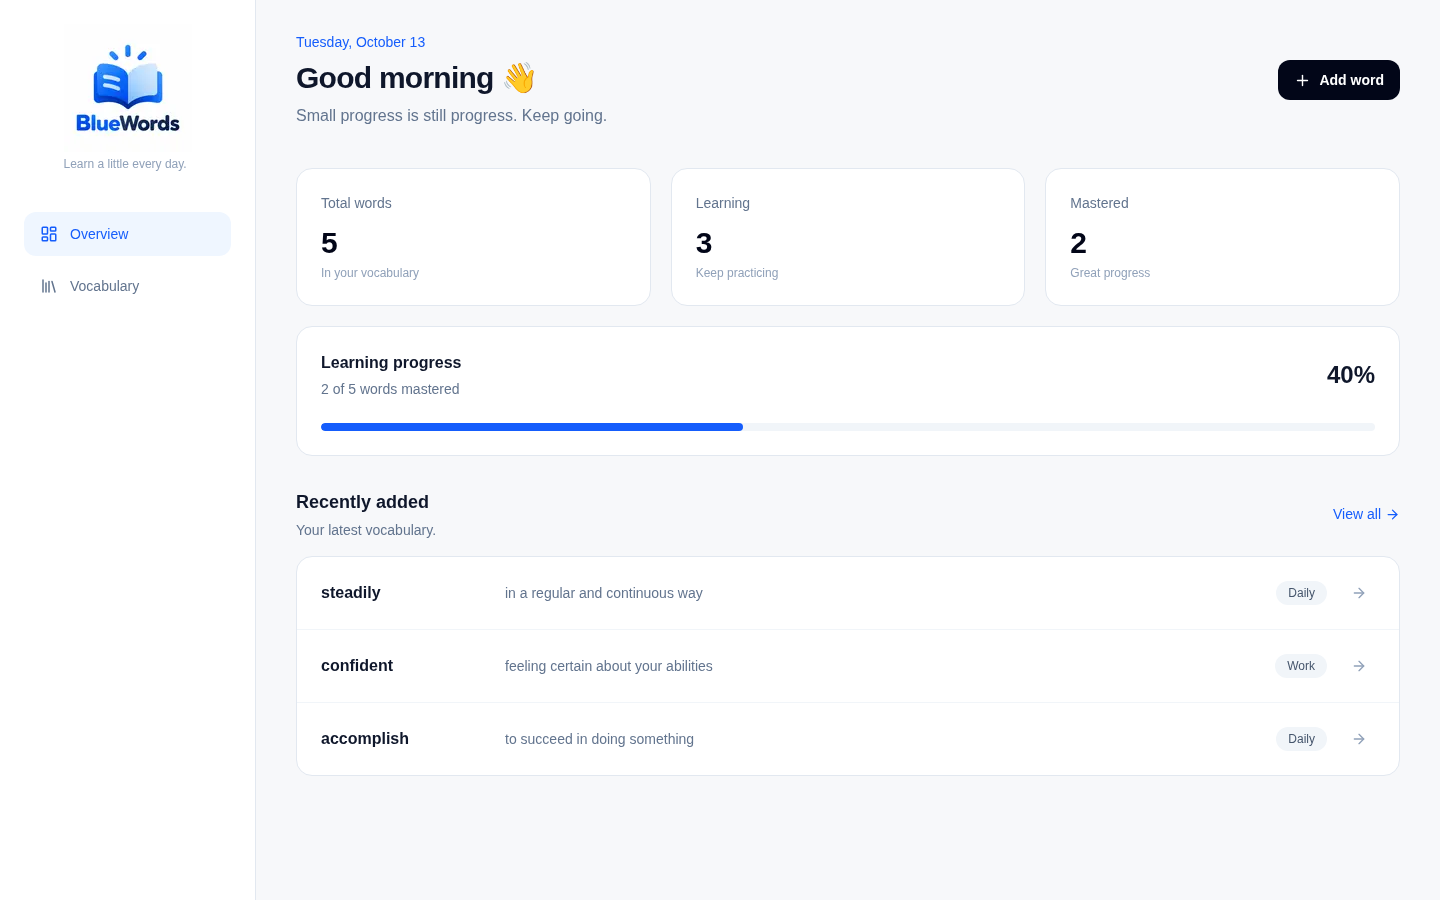
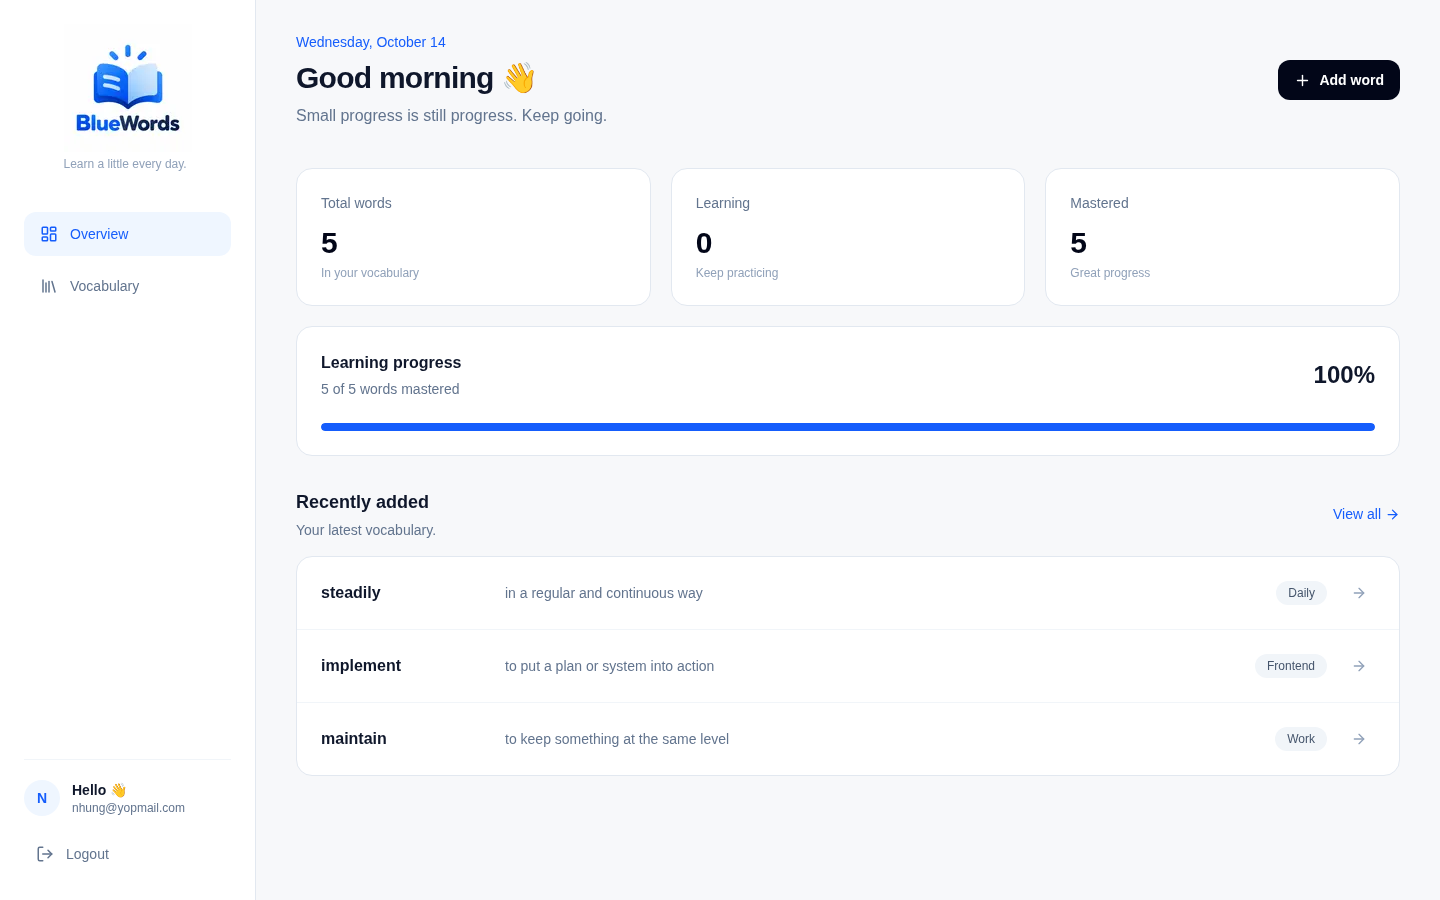
docs: update README and Cloud Sync screenshots

diff --git a/README.md b/README.md
@@ -1,84 +1,129 @@
 # BlueWords 💙
 
-**A simple and modern vocabulary tracker to help you learn, organize, and master English words.**
+**A modern vocabulary tracker to help you learn, organize, and master English words.**
 
-BlueWords is a responsive web application built with Next.js, TypeScript, and Tailwind CSS. It helps users manage their vocabulary, track learning progress, and build a consistent learning habit.
+BlueWords is a responsive, full-stack vocabulary management application built with **Next.js 16, TypeScript, Tailwind CSS v4, and Supabase**.
+
+It helps users build their personal vocabulary collection, organize words by category, and track learning progress. With Supabase Authentication and PostgreSQL, vocabulary is securely stored in the cloud and associated with each user's account.
 
 ### 🔗 Live Demo
 
-## Screenshots
+**[Try BlueWords](https://bluewords.vercel.app)**
 
-### Dashboard
+### 📸 Screenshots
+
+#### Dashboard
 
 ![BlueWords Dashboard](./public/screenshots/dashboard.png)
 
-### Vocabulary Management
+#### Vocabulary Management
 
 ![BlueWords Vocabulary](./public/screenshots/vocabulary.png)
 
-
-**[Try BlueWords](https://bluewords.vercel.app)**
-
 ### ✨ Features
 
-- **Vocabulary Management** — Add, edit, and delete vocabulary words.
+**Authentication & Cloud Storage**
+- **User Authentication** — Sign up, log in, and log out with Supabase Auth.
+- **Personal Vocabulary** — Each user manages their own vocabulary collection.
+- **Cloud Persistence** — Vocabulary is stored in Supabase PostgreSQL and remains available across sessions and devices.
+- **Row Level Security** — Database policies restrict access to each user's own records.
+- **Legacy Data Import** — Preview and import vocabulary previously saved in browser localStorage, with duplicate detection.
+
+**Vocabulary Management**
+- **CRUD Operations** — Add, edit, and delete vocabulary words.
 - **Learning Status** — Mark words as Learning or Mastered.
-- **Smart Search** — Search words by English vocabulary or meaning.
+- **Smart Search** — Find words by English vocabulary or meaning.
 - **Category Filtering** — Organize words into Daily, Work, and Frontend categories.
-- **Dashboard Overview** — View total words, mastered words, and learning progress.
+- **Duplicate Prevention** — Prevent duplicate vocabulary entries within the same account.
+
+**Dashboard & User Experience**
+- **Dashboard Overview** — Track total words, mastered words, and learning progress.
 - **Recent Words** — Quickly review recently added vocabulary.
-- **Local Storage** — Keep vocabulary data after refreshing the browser.
+- **Account Identification** — Display the signed-in user's email in the sidebar.
 - **Responsive Design** — Optimized for desktop, tablet, and mobile.
-- **User-Friendly Interactions** — Confirmation dialogs, toast notifications, and accessible modal interactions.
+- **Interactive Feedback** — Confirmation dialogs, loading states, and toast notifications.
+- **PWA Support** — Includes a web app manifest and app icons for an installable experience.
 
 ### 🛠 Tech Stack
 
 | Technology | Purpose |
 |---|---|
-| Next.js (App Router) | React framework |
-| React | UI development |
+| Next.js 16 (App Router) | Full-stack React framework and routing |
+| React | User interface |
 | TypeScript | Type safety |
-| Tailwind CSS v4 | Styling |
-| React Context API | State management |
-| Local Storage | Browser data persistence |
+| Tailwind CSS v4 | Styling and responsive design |
+| Supabase Auth | User authentication and session management |
+| Supabase PostgreSQL | Cloud database |
+| PostgreSQL Row Level Security | User-level data access control |
+| React Context API | Shared vocabulary state |
+| Supabase SSR | Server-side authentication integration |
 | Radix UI Dialog | Accessible dialogs |
 | Lucide React | Icons |
 | Sonner | Toast notifications |
-| Vercel | Deployment |
+| Vercel | Hosting and deployment |
+
+### 🏗 Architecture
+
+BlueWords uses the **Next.js App Router** with Supabase for authentication and data persistence.
+
+- **Authentication:** Supabase Auth manages user accounts and sessions.
+- **Protected Pages:** Server-side authentication checks restrict access to the Dashboard and Vocabulary pages.
+- **Database:** PostgreSQL stores vocabulary records associated with a user ID.
+- **Authorization:** Row Level Security ensures authenticated users can access only their own vocabulary.
+- **State Management:** React Context provides shared vocabulary data and CRUD actions to the Dashboard and Vocabulary interface.
+- **Data Migration:** An optional import workflow transfers valid legacy vocabulary from browser localStorage into Supabase.
 
 ### 🚀 Getting Started
 
-**1. Clone the repository**
+#### 1. Clone the repository
 
 ```bash
 git clone https://github.com/itcoding2520/bluewords.git
 cd bluewords
 ```
 
-**2. Install dependencies**
+#### 2. Install dependencies
 
 ```bash
 npm install
 ```
 
-**3. Start the development server**
+#### 3. Configure Supabase
+
+Create a Supabase project and configure the vocabulary database schema, authentication, and Row Level Security policies.
+
+Create a `.env.local` file in the project root:
+
+```env
+NEXT_PUBLIC_SUPABASE_URL=your_supabase_project_url
+NEXT_PUBLIC_SUPABASE_PUBLISHABLE_KEY=your_supabase_publishable_key
+```
+
+Use your Supabase project's URL and publishable key.
+
+**Security:** Never expose a Supabase secret key or `service_role` key through a `NEXT_PUBLIC_` environment variable. Do not commit `.env.local` to Git.
+
+#### 4. Start the development server
 
 ```bash
 npm run dev
 ```
 
-**4. Open the application**
+#### 5. Open the application
 
 Visit [http://localhost:3000](http://localhost:3000) in your browser.
+
+Create an account or log in to start managing your vocabulary.
 
 ### 📁 Project Structure
 
 ```text
 src/
 ├── app/
-│   ├── page.tsx
+│   ├── login/
+│   ├── auth/
 │   ├── vocabulary/
-│   │   └── page.tsx
+│   ├── page.tsx
 │   └── layout.tsx
 ├── components/
 │   ├── dashboard/
@@ -87,38 +132,43 @@ src/
 │   └── vocabulary/
 ├── config/
 ├── contexts/
+│   └── VocabularyContext.tsx
 ├── data/
 ├── hooks/
-└── lib/
+├── lib/
+│   ├── supabase/
+│   ├── storage.ts
+│   ├── vocabulary-import.ts
+│   └── vocabulary-migration.ts
+├── types/
+│   └── database.ts
+└── proxy.ts
 ```
 
-### 💾 Data Persistence
+### 💾 Data Persistence & Security
 
-BlueWords uses the browser's `localStorage` to save vocabulary data.
+BlueWords uses **Supabase PostgreSQL** as its primary data store.
 
-- Words remain available after refreshing the page.
-- No account or login is required.
-- Data is stored locally in each browser.
-- Vocabulary does not automatically sync across devices or browsers.
+- Vocabulary records belong to individual authenticated users.
+- PostgreSQL Row Level Security restricts access by user ID.
+- Changes are persisted in the cloud rather than browser localStorage.
+- Vocabulary can be accessed after signing in on another device or browser.
+- Previously saved localStorage vocabulary can be imported manually.
+- The import workflow previews available words, skips duplicates, and preserves the original browser data.
 
 ### 🧭 Future Improvements
 
-- [ ] Vocabulary review and practice mode
+- [ ] Flashcards and vocabulary practice mode
+- [ ] Vocabulary quizzes
 - [ ] Spaced repetition system
 - [ ] Custom vocabulary categories
-- [ ] Import and export vocabulary
-- [ ] Cloud synchronization and user authentication
+- [ ] Vocabulary export
+- [ ] Offline vocabulary access
 
 ### 🌐 Deployment
 
 BlueWords is deployed on **Vercel**.
 
-Live application: https://bluewords.vercel.app
+**Live application:** [https://bluewords.vercel.app](https://bluewords.vercel.app)
 
-### 👨💻 Author
-
-Developed by [itcoding2520](https://github.com/itcoding2520).
-
----
-
-Built with 💙 to make vocabulary learning simple and enjoyable.
+Production environment variables are configured in Vercel, while authentication and vocabulary storage
